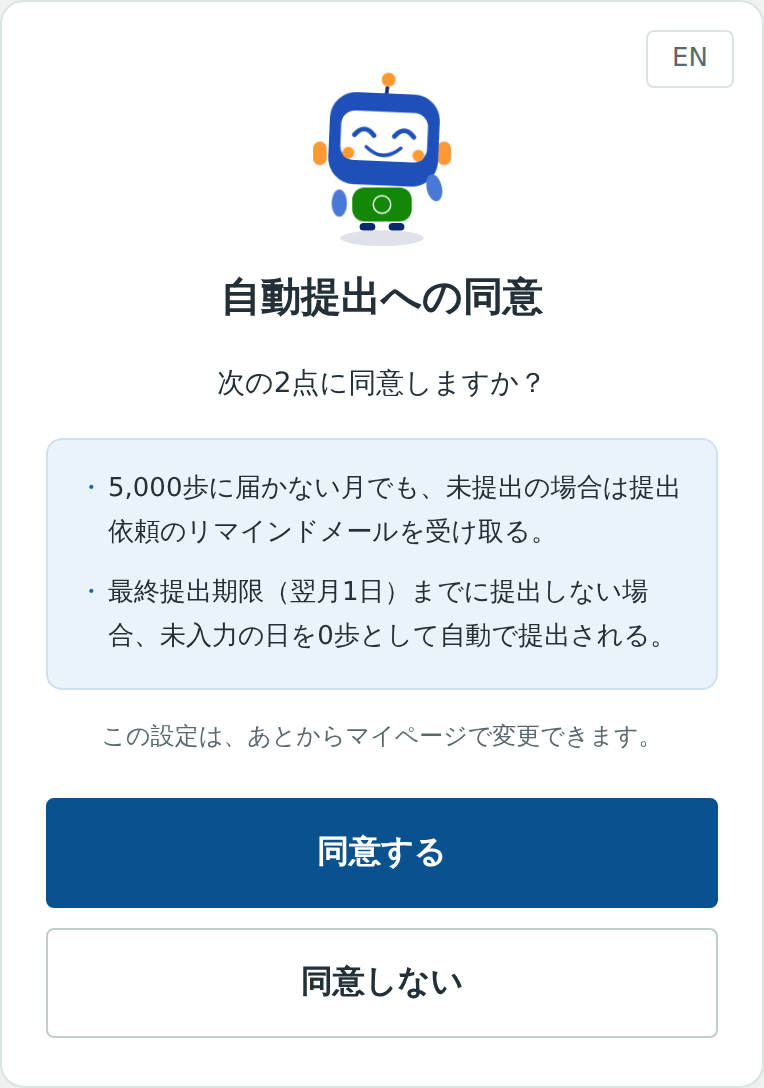
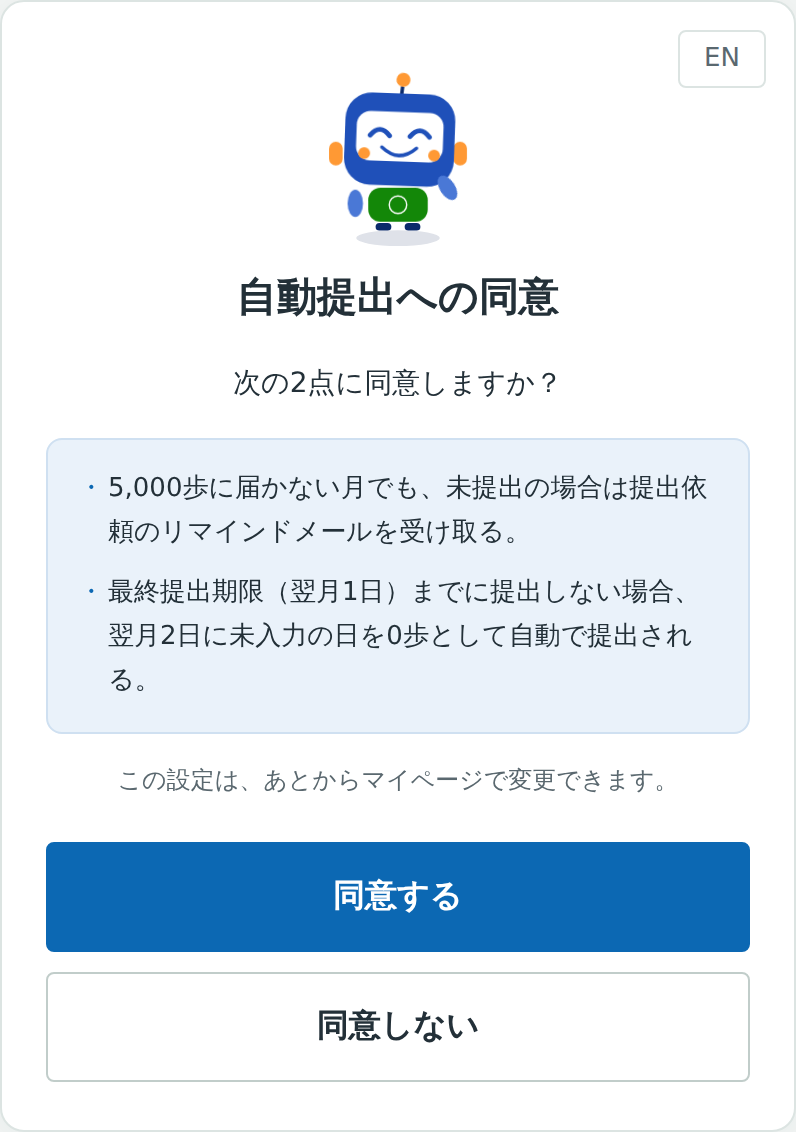
マニュアル: 佐野's marked-up corrections, and two the app owed
Thirteen red marks on the 参加者用 manual. Nine are the manual's, two
are the app's, and two are questions she will have to answer.

In the manual:
  04 リストで入力する → 歩数を入力する（リスト）,目次 and heading
  提出締切 → 提出最終締切日, in all three places it appears
  問い合わせ先 (kenkou@morabu.com / 078-335-7391) added where she asked
  — under 社員番号がわからないとき, in the reminder note, and as a last
  FAQ row
  p12 注意: the Japanese grouped and the English set below it. Every
  other note in the book is one point and reads fine alternating; this
  one is three, so it came out JA EN JA EN JA EN

In the app, which the manual then matches:
  the consent now says 翌月2日に — when it happens, not only the date
  by which it must not. One string, so the consent screen and マイページ
  both change, which is the rest of what she asked
  the プライベートメールアドレス tick no longer sits there dead until an
  address is typed. That is how she came to report 「チェックが
  はいりません」: she pressed it first, as anybody would, and nothing
  happened and nothing said why. It now puts the cursor in the address
  field and says what it is waiting for

One she did not mark, and it was wrong: p8 said auto-submission runs at
翌月2日 0:00. It runs at 09:00 JST, like every other job.

One she did mark is already right in the app: the submit button does
read 実績表を提出（未入力 ○日）. The manual had 提出する. Manual fixed.

consent.png and mypage.png retaken, against demo-roster.json as the
README requires — invented people, example.com addresses, никогда the
[…]

Changed region(s): [[0.0602, 0.0625, 0.9634, 0.9688], [0.9332, 0.4062, 0.9634, 0.625], [0.8429, 0.0312, 0.9332, 0.0938]]

diff --git a/manual/manual.html b/manual/manual.html
@@ -140,6 +140,10 @@ td.k .en { font-weight: 400; }
 .note p b { display: inline; color: inherit; font-size: inherit; margin: 0; }
 .note p { margin: 0 0 3pt; font-size: 8.8pt; line-height: 1.75; }
 .note p:last-child { margin: 0; }
+/* Where a note carries several points, the Japanese is grouped and the
+   English follows as its own block; this divides the two. */
+.note p.sep { margin-top: 3.2mm; padding-top: 2.6mm; border-top: 1px solid rgba(0,0,0,.10); }
+.contact { margin-top: 1.5mm; }
 .note.ok { border-color: var(--go); background: #EEF5F2; }
 .note.ok > b:first-child { color: var(--go); }
 .note.warn { border-color: var(--warn); background: #FBF2EF; }
@@ -190,7 +194,7 @@ td.k .en { font-weight: 400; }
     <li><a href="#s01"><span class="n">01</span>はじめに ― 本システムについて <span class="t-en">About this system</span></a></li>
     <li><a href="#s02"><span class="n">02</span>ログイン方法 <span class="t-en">Signing in</span></a></li>
     <li><a href="#s03"><span class="n">03</span>歩数を入力する（カレンダー） <span class="t-en">Entering steps — calendar</span></a></li>
-    <li><a href="#s04"><span class="n">04</span>リストで入力する <span class="t-en">Entering steps — list</span></a></li>
+    <li><a href="#s04"><span class="n">04</span>歩数を入力する（リスト） <span class="t-en">Entering steps — list</span></a></li>
     <li><a href="#s05"><span class="n">05</span>実績表を提出する <span class="t-en">Submitting your record</span></a></li>
     <li><a href="#s06"><span class="n">06</span>マイページを見る <span class="t-en">My page</span></a></li>
     <li><a href="#s07"><span class="n">07</span>リマインドメールと自動提出 <span class="t-en">Reminders &amp; automatic submission</span></a></li>
@@ -228,7 +232,7 @@ td.k .en { font-weight: 400; }
     <div><b>前月21日〜今月20日</b>記録期間：毎日の歩数を入力<span>Recording period: enter steps daily</span></div>
     <div><b>今月21日〜翌月1日</b>提出期間：「実績表を提出」を押す<span>Submission period: press Submit Record</span></div>
     <div><b>今月26日</b>未提出の方へリマインドメール<span>Reminder email if not yet submitted</span></div>
-    <div><b>翌月1日</b>提出締切<span>Final deadline</span></div>
+    <div><b>翌月1日</b>提出最終締切日<span>Final deadline</span></div>
     <div><b>翌月2日</b>未提出の実績表を自動提出（同意者のみ）<span>Auto-submission (consented only)</span></div>
   </div>
   <p class="ja"><b>【例】</b>9月21日〜10月20日の分の場合：10月21日〜11月1日に提出、10月26日にリマインド、11月2日に自動提出。</p>
@@ -267,6 +271,9 @@ td.k .en { font-weight: 400; }
   <h3>社員番号がわからないとき<em>If you do not know your number</em></h3>
   <p class="ja">健康対策委員会までお問い合わせください。</p>
   <p class="en">Please ask the Health Promotion Committee.</p>
+  <p class="ja contact">メール：<b>kenkou@morabu.com</b>　／　TEL：<b>078-335-7391</b></p>
+  <p class="en">※ 問い合わせ先は、巻末「よくある質問」にも記載しています。<br>
+    The contact details are also given in the FAQ at the back.</p>
 
   <h3>同意画面について<em>The consent screen</em></h3>
   <p class="ja">はじめてログインしたときに一度だけ表示されます。<b>同意する</b>または<b>同意しない</b>のどちらかを押すまで、次の画面には進めません。2 回目以降のログインでは表示されません。</p>
@@ -287,7 +294,7 @@ td.k .en { font-weight: 400; }
     </tr>
     <tr>
       <td class="k">未提出時の自動提出<p class="en">Automatic submission</p></td>
-      <td>期限（翌月1日）までに提出がない場合、翌月2日 0:00 に未入力の日を 0 歩として自動的に提出されます。<p class="en">If nothing is submitted by the 1st of the following month, your record is submitted at 00:00 on the 2nd with blank days recorded as 0.</p></td>
+      <td>期限（翌月1日）までに提出がない場合、翌月2日 9:00 に未入力の日を 0 歩として自動的に提出されます。<p class="en">If nothing is submitted by the 1st of the following month, your record is submitted at 09:00 on the 2nd with blank days recorded as 0.</p></td>
     </tr>
   </table>
 
@@ -360,17 +367,17 @@ td.k .en { font-weight: 400; }
   <div class="note warn">
     <b>注意 / Important</b>
     <p>歩かなかった日、万歩計を着け忘れた日は、空欄のままにせず <b>0</b> と入力してください。空欄の日が残っていると提出できません。</p>
-    <p>For days you did not walk or forgot the pedometer, enter <b>0</b> rather than leaving the day blank. You cannot submit while any day is empty.</p>
     <p>1 日あたり <b>100,000 歩以上</b>は入力できません。入力ミスを防ぐためのもので、この上限は設定で変更できます。</p>
-    <p>A single day of <b>100,000 steps or more</b> is refused, to catch a mistyped figure. The limit can be changed in 設定.</p>
     <p>今日より先の日付は入力できません。</p>
+    <p class="sep">For days you did not walk or forgot the pedometer, enter <b>0</b> rather than leaving the day blank. You cannot submit while any day is empty.</p>
+    <p>A single day of <b>100,000 steps or more</b> is refused, to catch a mistyped figure. The limit can be changed in 設定.</p>
     <p>You cannot enter steps for dates after today.</p>
   </div>
 </section>
 
 <!-- ============================ 04 ============================ -->
 <section class="sec" id="s04">
-  <div class="sec-h"><span class="num">04</span><h2>リストで入力する<em>Entering steps — list view</em></h2></div>
+  <div class="sec-h"><span class="num">04</span><h2>歩数を入力する（リスト）<em>Entering steps — list view</em></h2></div>
   <div class="rule"></div>
 
   <p class="ja">まとめて入力したいときは、「日別歩数」の右にある <span class="chip">リスト</span> を押すとリスト表示に切り替わります。紙の実績表と同じ 21 日から翌月 20 日までの並びで、上から順番に入力できます。</p>
@@ -404,7 +411,7 @@ td.k .en { font-weight: 400; }
   <p class="en">Once every day of the period has a figure, press the <b>submit button</b> at the bottom of the screen. Submission is open <b>from the 21st until the 1st of the following month</b>.</p>
 
   <ol class="steps">
-    <li>未入力の日が残っている間は、ボタンには <b>「提出する（未入力 ○日）」</b> と表示され、押せません。<p class="en">While days are still blank the button reads 提出する（未入力 ○日）and stays disabled.</p></li>
+    <li>未入力の日が残っている間は、ボタンには <b>「実績表を提出（未入力 ○日）」</b> と表示され、押せません。<p class="en">While days are still blank the button reads 実績表を提出（未入力 ○日）and stays disabled.</p></li>
     <li>すべて入力すると <b>「実績表を提出」</b> の表示になります。<b>「実績表を提出」ボタン</b>を押すと確認画面が開きます。<p class="en">When the month is complete the button reads 実績表を提出 (Submit Record). Pressing it opens a confirmation.</p></li>
     <li>合計歩数と完歩賞の判定を確認し、もう一度 <b>「実績表を提出」ボタン</b>を押します。<p class="en">Check your total and bonus status, then press 実績表を提出 again.</p></li>
   </ol>
@@ -470,7 +477,7 @@ td.k .en { font-weight: 400; }
     <tr><td class="k">今月20日<p class="en">20th of this month</p></td><td>記録期間の最終日。<p class="en">Last day of the recording period.</p></td></tr>
     <tr><td class="k">今月21日〜翌月1日<p class="en">21st of this month – 1st of next month</p></td><td>実績表を提出できる期間。「実績表を提出」ボタンで提出できます。<p class="en">The period for submitting your record. Submit with the 実績表を提出 (Submit Record) button.</p></td></tr>
     <tr><td class="k">今月26日<p class="en">26th of this month</p></td><td>まだ実績表を提出していない方へリマインドメールが届きます。メールの本文に最終締切日（翌月1日）が書かれています。<p class="en">A reminder email is sent to anyone who has not yet submitted. The body of the email states the final deadline, the 1st of next month.</p></td></tr>
-    <tr><td class="k">翌月1日<p class="en">1st of next month</p></td><td>提出締切。<p class="en">Final deadline.</p></td></tr>
+    <tr><td class="k">翌月1日<p class="en">1st of next month</p></td><td>提出最終締切日。<p class="en">Final deadline.</p></td></tr>
     <tr><td class="k">翌月2日<p class="en">2nd of next month</p></td><td>自動提出に同意している方で、まだ実績表を提出していない場合は、未入力の日を 0 歩として実績表が自動で提出されます。同意していない方は自動提出されません。設定はマイページで変更できます。<p class="en">If you have consented to auto-submission and have not submitted, your record is submitted automatically with blank days counted as 0 steps. If you have not consented, nothing is submitted. You can change this setting on My Page.</p></td></tr>
   </table>
 
@@ -480,7 +487,7 @@ td.k .en { font-weight: 400; }
 
   <div class="note warn">
     <b>注意 / Important</b>
-    <p>リマインドメールは、<b>会社のメールアドレス</b>へ送信されます。会社以外のアドレス（プライベートアドレスなど）への送信も希望する場合は、マイページで設定してください。</p>
+    <p>リマインドメールは、<b>会社のメールアドレス</b>（<b>kenkou@morabu.com</b> より送信）へ届きます。会社以外のアドレス（プライベートアドレスなど）への送信も希望する場合は、マイページで設定してください。</p>
     <p>Reminders are sent to your <b>company email address</b>. If you also want them sent to another address (such as a private address), set this up on My Page.</p>
   </div>
 </section>
@@ -689,7 +696,7 @@ td.k .en { font-weight: 400; }
     <tr><td class="k">前月21日〜今月20日</td><td>毎日の歩数を入力<p class="en">Enter steps daily</p></td><td>―</td></tr>
     <tr><td class="k">今月21日〜翌月1日</td><td>実績表を提出<p class="en">Submit Record</p></td><td>集計画面で提出状況を確認<p class="en">Check submission status on the summary screen</p></td></tr>
     <tr><td class="k">今月26日</td><td>まだ提出していない場合、リマインドメールが届く<p class="en">Reminder email if not yet submitted</p></td><td>送信人数と送信先の一覧がメールで届く<p class="en">Receive an email with the number of reminders sent and the list of recipients</p></td></tr>
-    <tr><td class="k">翌月1日</td><td>提出締切<p class="en">Final deadline</p></td><td>―</td></tr>
+    <tr><td class="k">翌月1日</td><td>提出最終締切日<p class="en">Final deadline</p></td><td>―</td></tr>
     <tr><td class="k">翌月2日</td><td>自動提出に同意している場合、未提出分が自動提出される<p class="en">Auto-submission if you have consented</p></td><td>自動提出完了のメールが届く。Excel を出力して実績を確認し、経費申請書を作成<p class="en">Receive an email confirming auto-submission. Export to Excel, check the records, then prepare the expense request</p></td></tr>
   </table>
 
@@ -723,6 +730,11 @@ td.k .en { font-weight: 400; }
     <tr>
       <td class="k">自動提出の同意を変更したい。<p class="en">I want to change my consent to automatic submission.</p></td>
       <td>マイページで変更し、「プロフィールを保存」を押してください。<p class="en">Change it on My Page and press プロフィールを保存.</p></td>
+    </tr>
+    <tr>
+      <td class="k">健康対策委員会へ連絡したい。<p class="en">I want to contact the Health Promotion Committee.</p></td>
+      <td>メール：<b>kenkou@morabu.com</b><br>TEL：<b>078-335-7391</b>
+        <p class="en">Email: kenkou@morabu.com &nbsp;/&nbsp; Tel: 078-335-7391</p></td>
     </tr>
   </table>
 

diff --git a/src/App.jsx b/src/App.jsx
@@ -115,7 +115,10 @@ const STR = {
   consentTitleOpt: ['自動提出への同意（任意）', 'Consent to automatic submission (optional)'],
   consentIntro: ['次の2点に同意する場合は、チェックを入れてください。', 'Tick the box if you agree to both of the following.'],
   consentPoint1: ['5,000歩に届かない月でも、未提出の場合は提出依頼のリマインドメールを受け取る。', 'You will receive a reminder email asking you to submit if you have not submitted, even in a month below 5,000 steps.'],
-  consentPoint2: ['最終提出期限（翌月1日）までに提出しない場合、未入力の日を0歩として自動で提出される。', 'If you do not submit by the final deadline (the 1st of next month), your record will be submitted automatically with blank days counted as 0 steps.'],
+  /* 佐野's note on the manual: say when it happens, not just by when it
+     must not. The same string is on the consent screen and on マイページ,
+     so both read alike — which is the other half of what she asked for. */
+  consentPoint2: ['最終提出期限（翌月1日）までに提出しない場合、翌月2日に未入力の日を0歩として自動で提出される。', 'If you do not submit by the final deadline (the 1st of next month), your record is submitted automatically on the 2nd with blank days counted as 0 steps.'],
   consentAgree: ['同意する', 'I agree'],
   unsubmitted: ['未提出', 'Outstanding'],
   reminders: ['未提出・リマインド', 'Reminders'],
@@ -196,6 +199,7 @@ const STR = {
   sessionGone: ['ログインの有効期限が切れました。お手数ですが、もう一度ログインしてください。', 'Your session has expired. Please sign in again.'],
   emailWork: ['会社のメールアドレス', 'Company email address'],
   email2: ['プライベートメールアドレス（任意）', 'Private email address (optional)'],
+  email2Need: ['先にプライベートメールアドレスを入力してください。', 'Enter the address first, then tick the box.'],
   email2Note: ['このアドレスにもお知らせを送る場合は、チェックボックスにチェックを入れてください。チェックを入れない場合は、会社のアドレスにのみ届きます。',
     'To also receive notices at this address, tick the checkbox. If you do not tick it, notices are sent only to your company address.'],
   consentAdminNote: ['本人がマイページで変更することもできます。', 'The participant can also change this on My Page.'],
@@ -1299,6 +1303,8 @@ function ProfileTab({ user, cfg, roster, setRoster, toast, y, m, onUpdated }) {
     pedometer: user.pedometer || '',
     email2: user.email2 || '', email2On: !!user.email2On, consent: !!user.consent,
   });
+  const [needEmail2, setNeedEmail2] = useState(false);
+  const email2Ref = React.useRef(null);
 
   useEffect(() => {
     let live = true;
@@ -1362,21 +1368,41 @@ function ProfileTab({ user, cfg, roster, setRoster, toast, y, m, onUpdated }) {
 
         {/* The tick sits beside the address rather than under it: below, it
             read as a caption and people typed an address expecting mail to
-            start arriving without ever ticking it. */}
+            start arriving without ever ticking it.
+
+            It used to be disabled until the address had an @ in it, which
+            is how 佐野 came to report that the box would not tick — she
+            pressed it first, as anybody would, and nothing happened and
+            nothing said why. A control that refuses in silence reads as
+            broken. Now it answers: it puts the cursor in the address field
+            and says what it is waiting for. */}
         <div className="fld">
           <span>{t('email2')}</span>
           <div className="withchk">
             <input
-              type="checkbox" checked={f.email2On}
-              disabled={!f.email2.includes('@')}
-              onChange={(e) => setF({ ...f, email2On: e.target.checked })}
+              type="checkbox" checked={f.email2On && f.email2.includes('@')}
+              onChange={(e) => {
+                if (e.target.checked && !f.email2.includes('@')) {
+                  setNeedEmail2(true);
+                  email2Ref.current?.focus();
+                  return;
+                }
+                setNeedEmail2(false);
+                setF({ ...f, email2On: e.target.checked });
+              }}
             />
             <input
+              ref={email2Ref}
               value={f.email2} inputMode="email" placeholder="example@gmail.com"
-              onChange={(e) => setF({ ...f, email2: e.target.value })}
+              onChange={(e) => {
+                setF({ ...f, email2: e.target.value });
+                if (e.target.value.includes('@')) setNeedEmail2(false);
+              }}
             />
           </div>
-          <em className="fld-note">{t('email2Note')}</em>
+          {needEmail2
+            ? <em className="fld-note warn">{t('email2Need')}</em>
+            : <em className="fld-note">{t('email2Note')}</em>}
         </div>
 
         <ConsentPanel
@@ -2943,6 +2969,7 @@ a.btn{text-decoration:none;text-align:center;display:inline-block}
   border-radius:4px;outline:none;font-family:inherit;font-size:15px;line-height:1.7;resize:vertical}
 .fld textarea:focus{border-color:var(--brand);background:#fff}
 .fld-note{display:block;font-style:normal;font-size:12px;color:var(--dim);margin-top:5px}
+.fld-note.warn{color:var(--warn)}
 .trial-cta{width:100%;margin-top:20px;border-color:var(--brand);color:var(--brand)}
 .trial-cta:hover{background:var(--brand-wash)}
 /* a removed participant, shown only when 削除済みを表示 is ticked */

diff --git a/manual/README.md b/manual/README.md
@@ -127,6 +127,9 @@ data.** Load the demo roster first:
 - Chapter 02 states there is no password. Update when password login ships;
   the 社員番号がわからない search can come back at the same time, since a
   number alone will no longer be enough to sign in
+- Chapter 01 (p8) used to say auto-submission runs at 翌月2日 0:00. It runs
+  at 09:00 JST — the jobs all do. Corrected; if the schedule moves, this is
+  the line to move with it
 - The consent is still described as one checkbox. 健康対策委員会 asked for it
   to be split into two — reminder email, and automatic submission — and that
   is on hold pending a discussion, so the app and the manual both still show
